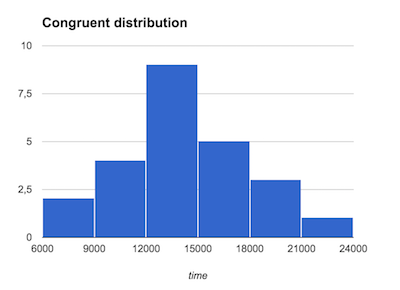
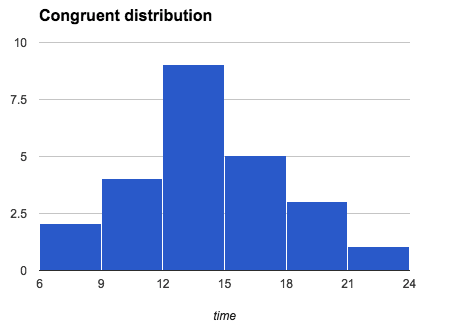
Fixing input data and updating the results

Changed region(s): [[0.0, 0.0, 0.93, 0.869], [0.0, 0.2793, 0.09, 0.3414], [0.45, 0.931, 0.54, 0.9621]]

diff --git a/P1/README.md b/P1/README.md
@@ -34,30 +34,28 @@ A one-sample t-test will be performed because we don't know the population param
 
 | Condition        | Sample Mean  | Sample Standard Deviation    |
 | ---------------- | ------------ | -----------------------------|
-| congruent        | 14051.13     | 3559.36                      |
-| incongruent      | 22015.92     | 4797.06                      |
-| difference       | 7964.79      | 4864.83                      |
+| congruent        | 14.05        | 3.56                         |
+| incongruent      | 22.02        | 4.80                         |
+| difference       | 7.96         | 4.86                         |
 
 ### 4. Provide one or two visualizations that show the distribution of the sample data. Write one or two sentences noting what you observe about the plot or plots.
 
 #### Congruent Distribution
-The congruent histogram (bin size equals 3000) follows a normal distribution
+The congruent histogram (bin size equals 3) follows a normal distribution
 
-![Congruent Distribution](https://github.com/gerosa/udacity-data-analyst/blob/master/P1/congruent_distribution.png)
-
-
+![Congruent Distribution](https://raw.githubusercontent.com/gerosa/udacity-data-analyst/master/P1/congruent_distribution.png)
 
 #### Incongruent Distribution
-The incongruent histogram (bin size equals 2500) follows a normal distribution with few outliners at the positive side.
+The incongruent histogram (bin size equals 2.5) follows a normal distribution with few outliners at the positive side.
 
-![Incongruent Distribution](https://github.com/gerosa/udacity-data-analyst/blob/master/P1/incongruent_distribution.png)
+![Incongruent Distribution](https://raw.githubusercontent.com/gerosa/udacity-data-analyst/master/P1/incongruent_distribution.png)
 
 ### 5. Now, perform the statistical test and report your results. What is your confidence level and your critical statistic value? Do you reject the null hypothesis or fail to reject it? Come to a conclusion in terms of the experiment task. Did the results match up with your expectations?
 ```
 alpha = 0.01
 t-critical = 2.5
 t(23) = 8.02, p < 0.01, One-tailed positive direction
-99% CI = (5177.36, 10752.22)
+99% CI = (5.18, 10.75)
 ```
 Based on the above results we reject the null and we can say that there is a statiscally significant effect in the positve direction, i.e, the incongruent task takes more time than the congruent task.
 
